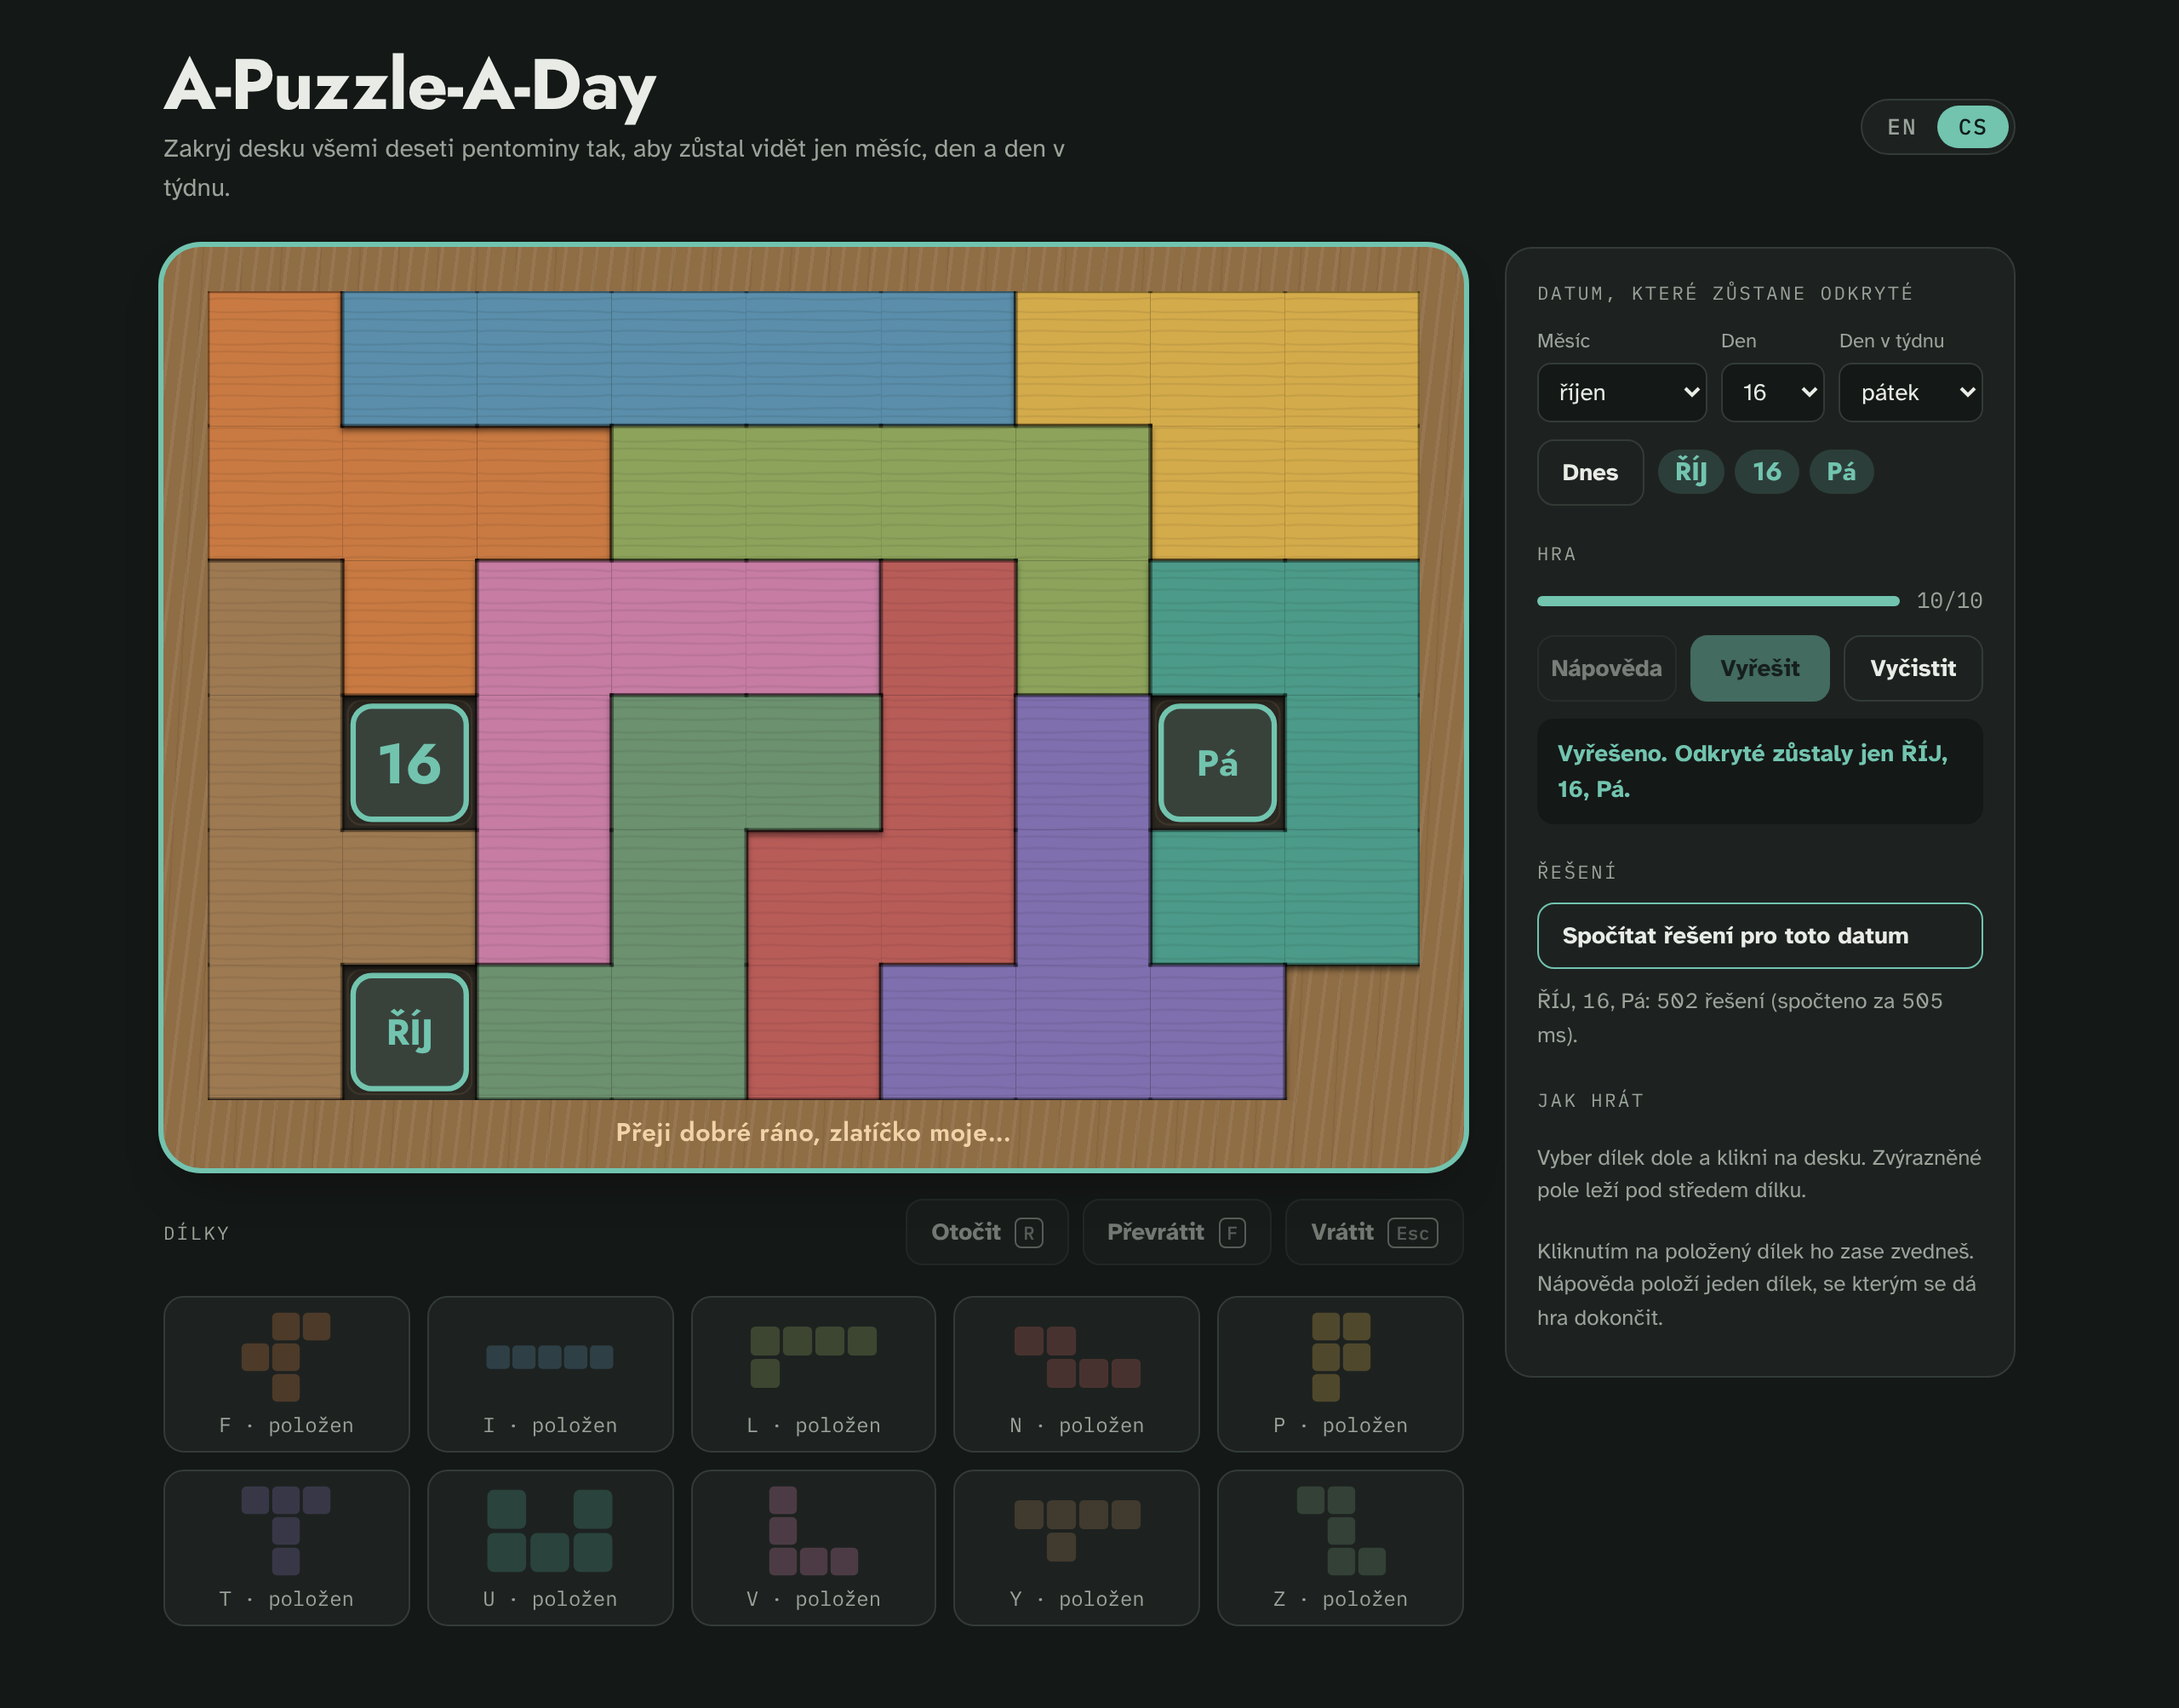
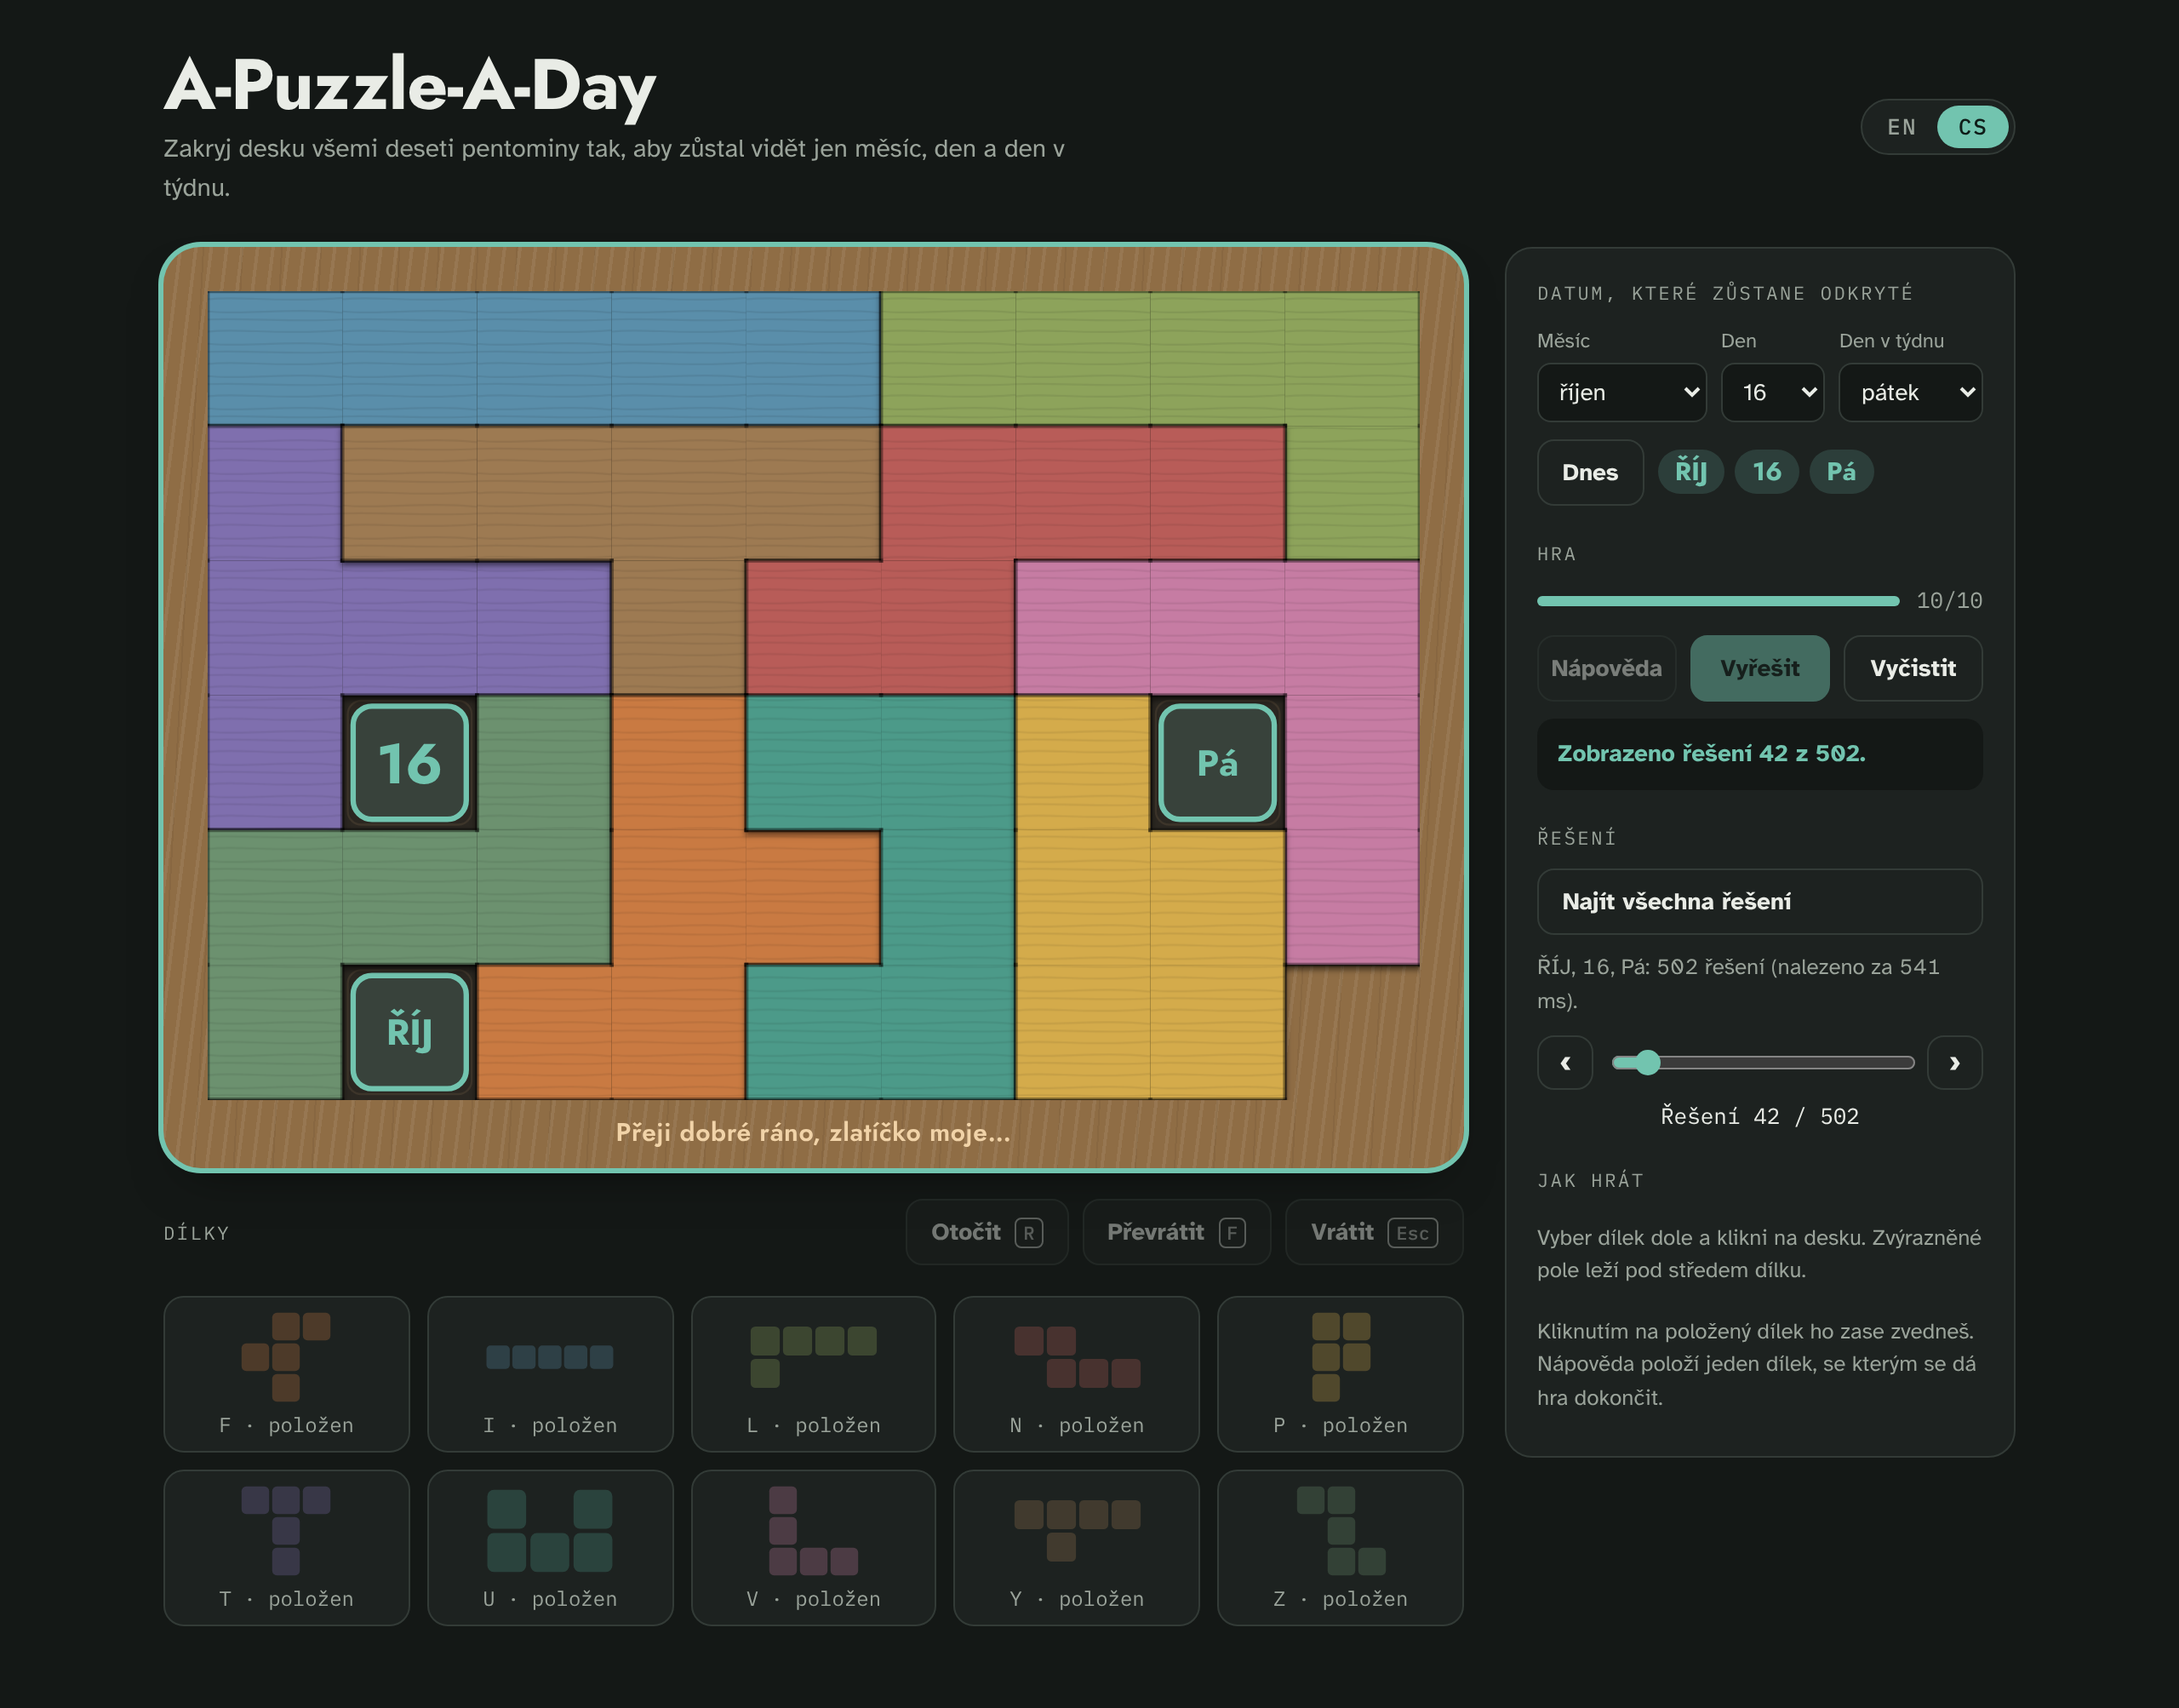
Add slider to browse all solutions in the web game
Claude-Session: https://claude.ai/code/session_019fHcnDfzBJnLAgYR8F2oRD

Changed region(s): [[0.0938, 0.1545, 0.6562, 0.6491], [0.6875, 0.6181, 0.9062, 0.8345], [0.6875, 0.4327, 0.9062, 0.5872]]

diff --git a/web/index.html b/web/index.html
@@ -314,6 +314,12 @@ select {
 .meter { flex: 1; height: 6px; border-radius: 3px; background: var(--line); overflow: hidden; }
 .meter > span { display: block; height: 100%; background: var(--accent); transition: width 0.25s ease; }
 .count-line { font-size: 13px; color: var(--muted); margin: 0; font-variant-numeric: tabular-nums; }
+.browser { display: grid; gap: 6px; }
+.browse-row { display: grid; grid-template-columns: auto minmax(0, 1fr) auto; gap: 8px; align-items: center; }
+.browse-row .btn { padding: 4px 12px; font-size: 18px; line-height: 1.2; }
+.browse-label { margin: 0; font-family: var(--font-mono); font-size: 13px; text-align: center; font-variant-numeric: tabular-nums; }
+input[type="range"] { width: 100%; min-width: 0; accent-color: var(--accent); }
+input[type="range"]:focus-visible { outline: 3px solid var(--accent); outline-offset: 2px; }
 .help { font-size: 13px; color: var(--muted); margin: 0; }
 .help p { margin: 0 0 6px; }
 
@@ -398,6 +404,14 @@ select {
                 <p class="eyebrow" data-i18n="solutionsHeading"></p>
                 <button class="btn" id="count" type="button" data-i18n="count"></button>
                 <p class="count-line" id="count-line"></p>
+                <div class="browser" id="browser" hidden>
+                    <div class="browse-row">
+                        <button class="btn" id="sol-prev" type="button">‹</button>
+                        <input type="range" id="sol-range" min="1" max="1" value="1">
+                        <button class="btn" id="sol-next" type="button">›</button>
+                    </div>
+                    <p class="browse-label" id="sol-label"></p>
+                </div>
             </div>
 
             <div class="group help">
@@ -444,10 +458,15 @@ const I18N = {
         solve: "Solve",
         clear: "Clear",
         solutionsHeading: "Solutions",
-        count: "Count solutions for this date",
+        count: "Find all solutions",
         countDefault: "Every month, day and weekday combination has at least one solution.",
-        counting: (d) => `Counting solutions for ${d}…`,
-        counted: (d, n, ms) => `${d} has ${n} solutions (counted in ${ms} ms).`,
+        counting: (d) => `Finding all solutions for ${d}…`,
+        counted: (d, n, ms) => `${d} has ${n} solutions (found in ${ms} ms).`,
+        solutionLabel: (k, n) => `Solution ${k} / ${n}`,
+        showing: (k, n) => `Showing solution ${k} of ${n}.`,
+        prevSolution: "Previous solution",
+        nextSolution: "Next solution",
+        browseSolutions: "Browse solutions",
         howTo: "How to play",
         help1: "Pick a piece below, then click the board. The highlighted cell sits under the piece's centre.",
         help2: "Click a placed piece to pick it up again. Hint places one piece that still leads to a solution.",
@@ -486,10 +505,15 @@ const I18N = {
         solve: "Vyřešit",
         clear: "Vyčistit",
         solutionsHeading: "Řešení",
-        count: "Spočítat řešení pro toto datum",
+        count: "Najít všechna řešení",
         countDefault: "Každá kombinace měsíce, dne a dne v týdnu má alespoň jedno řešení.",
-        counting: (d) => `Počítám řešení pro ${d}…`,
-        counted: (d, n, ms) => `${d}: ${n} řešení (spočteno za ${ms} ms).`,
+        counting: (d) => `Hledám všechna řešení pro ${d}…`,
+        counted: (d, n, ms) => `${d}: ${n} řešení (nalezeno za ${ms} ms).`,
+        solutionLabel: (k, n) => `Řešení ${k} / ${n}`,
+        showing: (k, n) => `Zobrazeno řešení ${k} z ${n}.`,
+        prevSolution: "Předchozí řešení",
+        nextSolution: "Další řešení",
+        browseSolutions: "Procházet řešení",
         howTo: "Jak hrát",
         help1: "Vyber dílek dole a klikni na desku. Zvýrazněné pole leží pod středem dílku.",
         help2: "Kliknutím na položený dílek ho zase zvedneš. Nápověda položí jeden dílek, se kterým se dá hra dokončit.",
@@ -602,7 +626,7 @@ NAMES.forEach((name, p) => {
     }
 });
 
-function runSolver(blocked, usedNames, limit) {
+function runSolver(blocked, usedNames, limit, collect) {
     const filled = new Uint8Array(N);
     blocked.forEach((i) => { filled[i] = 1; });
     const used = new Uint8Array(NAMES.length);
@@ -612,6 +636,7 @@ function runSolver(blocked, usedNames, limit) {
     const chosen = [];
     let first = null;
     let count = 0;
+    const all = [];
 
     function regionsOk() {
         seen.fill(0);
@@ -638,6 +663,7 @@ function runSolver(blocked, usedNames, limit) {
         if (e === N) {
             count++;
             if (!first) first = chosen.slice();
+            if (collect) all.push(chosen.slice());
             return count >= limit;
         }
         for (const pl of byMin[e]) {
@@ -655,10 +681,8 @@ function runSolver(blocked, usedNames, limit) {
         return false;
     }
     if (regionsOk()) search();
-    return {
-        first: first ? first.map((pl) => ({ name: NAMES[pl.p], cells: pl.cells.map((i) => playable[i]) })) : null,
-        count,
-    };
+    const decode = (sol) => sol.map((pl) => ({ name: NAMES[pl.p], cells: pl.cells.map((i) => playable[i]) }));
+    return { first: first ? decode(first) : null, count, all: all.map(decode) };
 }
 
 const state = {
@@ -674,6 +698,7 @@ const state = {
     message: null,
     tone: "",
     count: null,
+    browse: null,
 };
 
 const $ = (id) => document.getElementById(id);
@@ -819,6 +844,18 @@ function renderPanel() {
         : c.pending
             ? t().counting(targetText())
             : t().counted(targetText(), c.n, c.ms);
+    const b = state.browse;
+    $("browser").hidden = !b || b.solutions.length === 0;
+    if (b && b.solutions.length) {
+        const range = $("sol-range");
+        range.max = String(b.solutions.length);
+        range.value = String(b.index + 1);
+        range.setAttribute("aria-label", t().browseSolutions);
+        range.setAttribute("aria-valuetext", t().solutionLabel(b.index + 1, b.solutions.length));
+        $("sol-label").textContent = t().solutionLabel(b.index + 1, b.solutions.length);
+        $("sol-prev").setAttribute("aria-label", t().prevSolution);
+        $("sol-next").setAttribute("aria-label", t().nextSolution);
+    }
     $("hint").disabled = isSolved();
     $("solve").disabled = isSolved();
 }
@@ -936,7 +973,7 @@ $("flip").addEventListener("click", flip);
 $("drop").addEventListener("click", drop);
 
 document.addEventListener("keydown", (ev) => {
-    if (ev.target.closest && ev.target.closest("select")) return;
+    if (ev.target.closest && ev.target.closest("select, input")) return;
     if (ev.metaKey || ev.ctrlKey || ev.altKey) return;
     const k = ev.key.toLowerCase();
     if (k === "r") rotate();
@@ -998,17 +1035,35 @@ $("count").addEventListener("click", () => {
     setTimeout(() => {
         const t0 = performance.now();
         const blocked = targets().map(([r, c]) => idxOf[r * COLS + c]);
-        const { count } = runSolver(blocked, [], Infinity);
+        const { count, all } = runSolver(blocked, [], Infinity, true);
         state.count = { n: count, ms: Math.round(performance.now() - t0) };
-        renderPanel();
+        state.browse = { solutions: all, index: 0 };
+        showSolution(0);
     }, 30);
 });
+
+function showSolution(index) {
+    const b = state.browse;
+    if (!b || !b.solutions.length) return;
+    const n = b.solutions.length;
+    b.index = ((index % n) + n) % n;
+    state.placed.clear();
+    b.solutions[b.index].forEach(({ name, cells }) => state.placed.set(name, cells));
+    state.selected = null;
+    state.flashName = null;
+    say(() => t().showing(b.index + 1, n), "good");
+    render();
+}
+$("sol-range").addEventListener("input", (ev) => showSolution(Number(ev.target.value) - 1));
+$("sol-prev").addEventListener("click", () => showSolution(state.browse.index - 1));
+$("sol-next").addEventListener("click", () => showSolution(state.browse.index + 1));
 
 function setTarget(month, day, weekday) {
     state.month = month;
     state.day = day;
     state.weekday = weekday;
     state.count = null;
+    state.browse = null;
     const tg = targets();
     const removed = [];
     state.placed.forEach((cells, name) => {

diff --git a/web/screenshots.js b/web/screenshots.js
@@ -49,6 +49,7 @@ async function open(browser, opts, lang) {
     await b.page.evaluate(() => solveAll());
     await b.page.click("#count");
     await b.page.waitForFunction(() => state.count && !state.count.pending);
+    await b.page.evaluate(() => showSolution(41));
     await b.page.screenshot({ path: `${out}/solved-cs-dark.png`, fullPage: true });
 
     const c = await open(browser, { viewport: { width: 390, height: 844 }, deviceScaleFactor: 3, colorScheme: "light", isMobile: true, hasTouch: true }, "en");

diff --git a/README.md b/README.md
@@ -47,7 +47,8 @@ loads its fonts from Google Fonts.
 - **Hint** (`H`) places one piece that still leads to a full solution, or tells you the current position
   is a dead end.
 - **Solve** completes the board from wherever you are, keeping your pieces.
-- **Count solutions** enumerates every solution for the chosen date in about half a second.
+- **Find all solutions** enumerates every solution for the chosen date in about half a second. A
+  slider (or ‹ ›) then steps through them on the board.
 - **EN / CS** switches the board labels and the interface. The choice is remembered; `index.html#cs` and
   `index.html#en` open a specific language.
 
